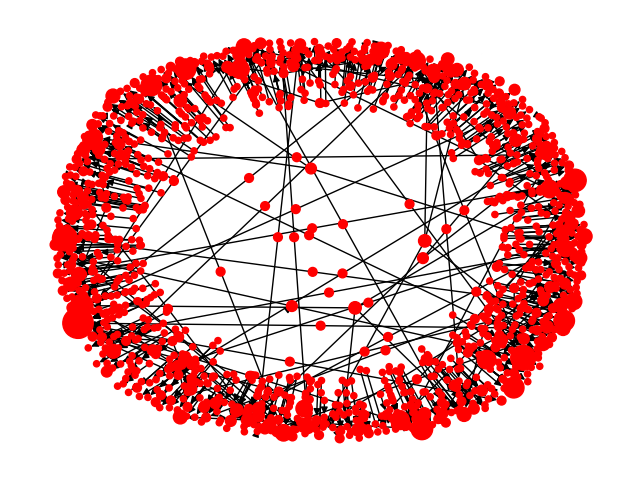
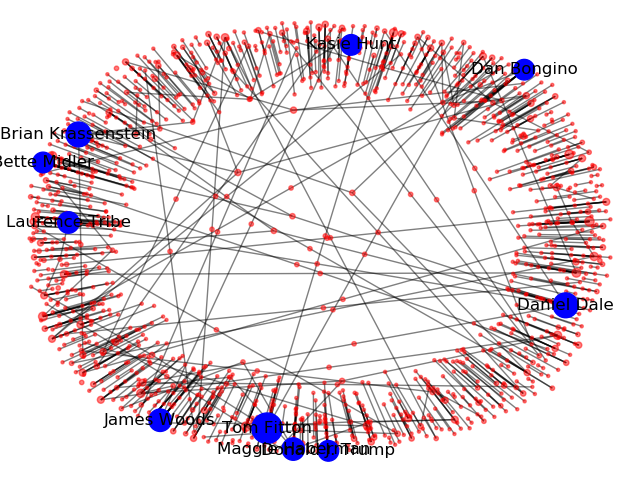
update drawing routine to highlight important nodes

diff --git a/network_analysis_on_tweets/graph_builder.py b/network_analysis_on_tweets/graph_builder.py
@@ -53,12 +53,12 @@ def draw_di_graph(graph_object, scale_by_degree=True):
         d = nx.degree(graph_object)
         keys, degrees = zip(*d)
         network = nx.draw(graph_object, nodelist=keys,
-                          node_size=[20*degree for degree in degrees],
-                          pos=positions)
+                          node_size=[5*degree for degree in degrees],
+                          pos=positions, alpha=0.5, arrows=False)
     else:
-        network = nx.draw(graph_object, pos=positions, node_size=50)
+        network = nx.draw(graph_object, pos=positions, node_size=50, alpha=0.5)
     # labels =  nx.draw_networkx_labels(graph, pos=positions)
-    return plt.gca()
+    return positions, network, plt.gca()
 
 def get_hub_nodes(graph_object, top_n_hubs=10):
     """
@@ -72,3 +72,16 @@ def get_hub_nodes(graph_object, top_n_hubs=10):
     degrees = nx.degree(graph_object)
     sorted_degrees = sorted(degrees, key=lambda x: x[1], reverse=True)
     return sorted_degrees[:top_n_hubs]
+
+def highlight_important_nodes(graph_object, positions, top_n_hubs=10):
+    labels = {}
+    important_nodes, degrees = zip(*get_hub_nodes(graph_object, top_n_hubs=top_n_hubs))
+
+    for node in graph_object.nodes():
+        if node in important_nodes:
+            labels[node] = node
+    network = nx.draw_networkx_nodes(graph_object, nodelist=labels.values(),
+                    node_size=[20 * degree for degree in degrees],
+                    pos=positions, node_color='b')
+    nx.draw_networkx_labels(important_nodes, positions, labels, font_size=12,
+                            font_color='k')

diff --git a/network_analysis_on_tweets/tweet_network_builder.py b/network_analysis_on_tweets/tweet_network_builder.py
@@ -2,8 +2,9 @@ import graph_builder as gb
 import matplotlib.pyplot as plt
 
 graph = gb.build_graph_from_csvs("data/", num_files=3)
-ax = gb.draw_di_graph(graph)
+position, network, ax = gb.draw_di_graph(graph)
 for user, connections in gb.get_hub_nodes(graph):
     print("User {} has {} retweets in the dataset".format(user, connections))
-plt.show()
+gb.highlight_important_nodes(graph, position)
+plt.savefig("images/example_network.png")
 
